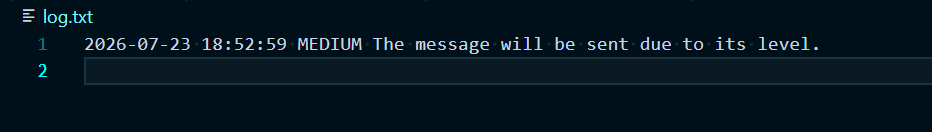
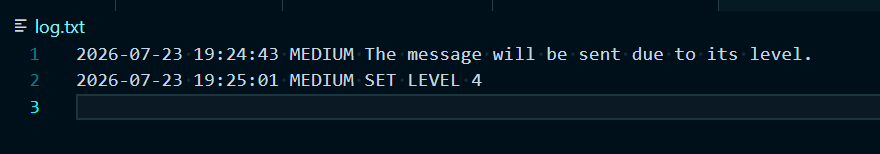
Fix bugs in Program.cpp. Update the images.

diff --git a/Program/Program.cpp b/Program/Program.cpp
@@ -36,20 +36,27 @@ bool checkInputValues(int argc, char** argv) noexcept {
     std::string type = argv[1];
     if (type != "FILE_LOGGER" && type != "SOCKET_LOGGER")
     {
-        std::cout << "Choose the type of Library and try again.";
+        std::cout << "Choose the type of Library and try again." << std::endl;
         res = false;
     }
 
-    if ((type == "FILE_LOGGER" && argc == 4) ||
-        (type == "SOCKET_LOGGER" && argc == 5)) 
-    {
-        int num = static_cast<int>(argv[argc - 1][0]) - 48;
-        if (num > -1 && num < 2 && argv[argc - 1][1] == '\0');
-            res = true;
-    } else {
+    bool isCorrectType =
+        (type == "FILE_LOGGER" && argc == 4) ||
+        (type == "SOCKET_LOGGER" && argc == 5);
+
+    if (!isCorrectType) {
         std::cout << "Put the correct data and try again.";
-        res = false;
+        return false;
     }
+
+    char level = argv[argc - 1][0];
+
+    if (argv[argc - 1][1] != '\0' || level < '0' || level > '2') {
+        std::cout << "Put the correct data and try again.";
+        return false;
+    }
+
+    return true;
     return res;
 }
 
@@ -75,26 +82,28 @@ void Program::acceptRequest() {
             break;
         }
 
-        if (str == "SET LEVEL 0" ||
-            str == "SET LEVEL 1" ||
-            str == "SET LEVEL 2") 
+        const std::string command = "SET LEVEL ";
+
+        if (str.compare(0, command.size(), command) == 0 &&
+            str.size() == command.size() + 1 &&
+            str.back() >= '0' &&
+            str.back() <= '2')
         {
-            size_t NUM_INDEX = 10;
-            int num = str[NUM_INDEX] - '0';
-            m_i = static_cast<MESSAGE_IMPORTANCE>(num);
+            m_i = static_cast<MESSAGE_IMPORTANCE>(str.back() - '0');
             LogLibrary->changeImportanceLevel(m_i);
 
-            std::cout << "You change the level." << std::endl;
-
-        } else {
-            if (isdigit(str[0])) {
-                int num = str[0] - '0';
-                m_i = static_cast<MESSAGE_IMPORTANCE>(num);
-                message = str.substr(2, str.size() - 2);
+            std::cout << "You changed the level.\n";
+        }
+        else
+        {
+            if (!str.empty() && std::isdigit(static_cast<unsigned char>(str[0]))) {
+                m_i = static_cast<MESSAGE_IMPORTANCE>(str[0] - '0');
+                message = str.substr(2);
             } else {
-                message = str;
                 m_i = LogLibrary->level();
+                message = str;
             }
+
             m_q_.push(m_i, message, time);
         }
     }
